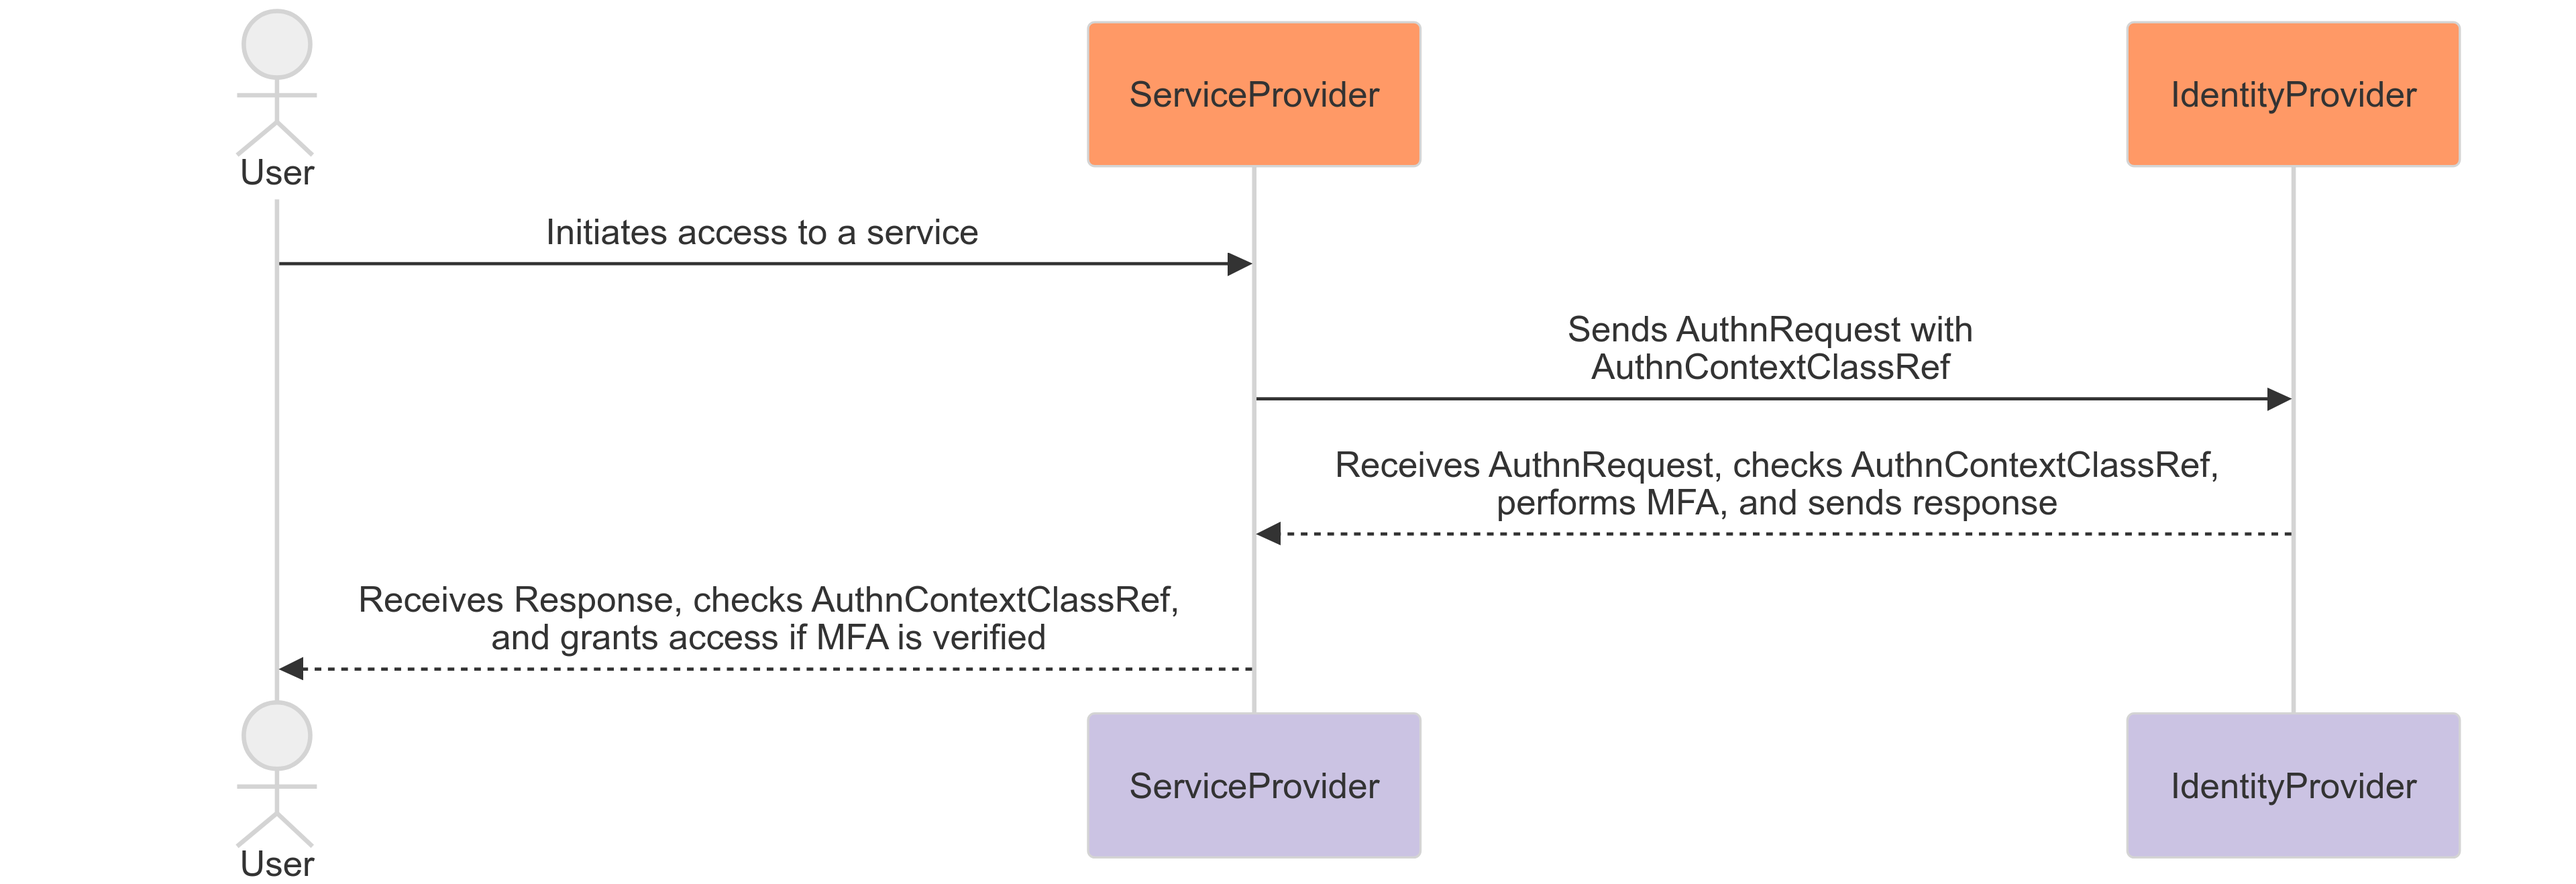
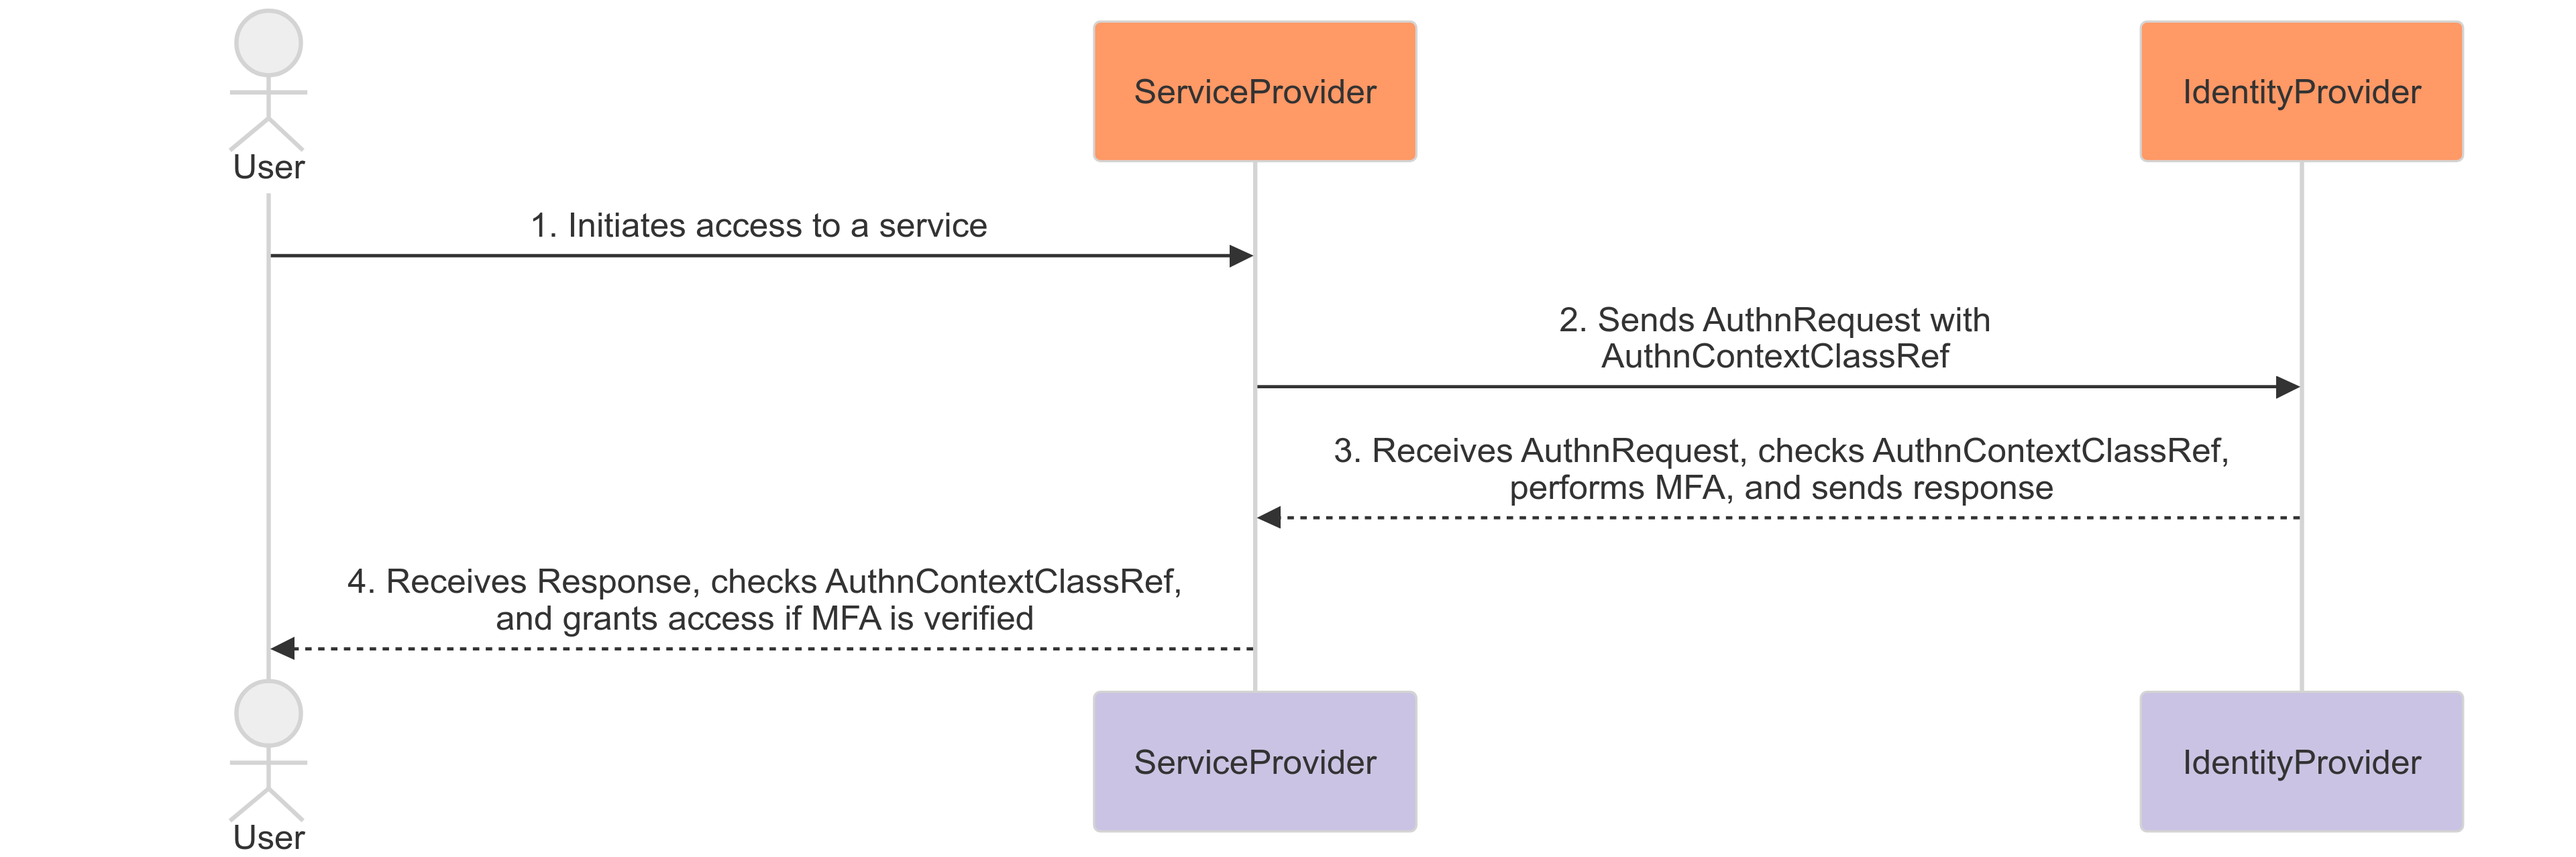
Add content and figure

diff --git a/docs/_configure-refeds-mfa-on-shibboleth-sp/03-check-refeds-mfa.md b/docs/_configure-refeds-mfa-on-shibboleth-sp/03-check-refeds-mfa.md
@@ -4,16 +4,23 @@ order: 3
 duration: 1
 ---
 
-The Identity Provider (IdP) must then check the AuthnContextClassRef element in the AuthnRequest message. If the URI
-of the REFEDS MFA Profile is present, the IdP must ensure that the user is authenticated using MFA. 
+After the SP sends the MFA requirement to the IdP, the IdP must then check the `<AuthnContextClassRef>` element in the AuthnRequest message.
 
-The identity provider must then include the AuthnContextClassRef element in the Response message. This is most 
-easily done by replacing the `require shibboleth` stub with `require authnContextClassRef https://refeds.org/profile/mfa` in the Apache configuration 
-file as shown below.
+If the URI of the REFEDS MFA Profile is present, the IdP must include the REFEDS MFA in its response to ensure that the user is authenticated using MFA. 
 
-An HTTP 401 Authorization Required error page is also included in the configuration file to block further access 
-and inform the user that MFA is required to access the resource. The user is also provided with a link to 
-reauthenticate with MFA.
+This is accomplished by including the `<AuthnContextClassRef>` element in the IdP's Response message and is most easily done by replacing the `require shibboleth` stub on the third line of the Apache configuration file as shown 
+below:
+
+```apache
+<Location /auth/login>
+    AuthType shibboleth 
+    require shibboleth
+    ShibRequestSetting requireSession true
+    ShibRequestSetting authnContextClassRef https://refeds.org/profile/mfa
+</Location>
+```
+
+with the following: `require authnContextClassRef https://refeds.org/profile/mfa`
 
 ```apache
 <Location /auth/login>
@@ -21,8 +28,8 @@ reauthenticate with MFA.
     require authnContextClassRef https://refeds.org/profile/mfa
     ShibRequestSetting requireSession true
     ShibRequestSetting authnContextClassRef https://refeds.org/profile/mfa
-    ErrorDocument 401 "<h1>Access denied: MFA required</h1>Multi-Factor Authentication is required to access this resource, but you have logged in without MFA confirmed.<p>You can try <a href=\"/Shibboleth.sso/Login?target=/auth/login&authnContextClassRef=https://refeds.org/profile/mfa\">logging in again with MFA</a>."
 </Location>
 ```
 
-The SP must check the AuthnContextClassRef element in the Response message.
+If there are other `require` rules in the Apache configuration file, the `require authnContextClassRef https://refeds.org/profile/mfa` rule should be added to the list of rules which should then all be wrapped 
+in a `<RequireAll>` block and joined with a logical <strong>AND</strong>. If this is not done, Apache will apply default <strong>OR</strong> logic.

diff --git a/docs/_configure-refeds-mfa-on-shibboleth-sp/04-mfa-specific-error-handling.md b/docs/_configure-refeds-mfa-on-shibboleth-sp/04-mfa-specific-error-handling.md
@@ -1,0 +1,33 @@
+---
+title: MFA-specific error handling
+order: 4
+duration: 1
+---
+
+The next step in the configuration process is error handling. If a different `authnContextClassRef` value is used 
+other than what is requested by the SP, the IdP must return an error to the SP. There are a number of reasons why 
+this may occur and can include misconfiguration of the IdP or the SP. In this case, Apache blocks further access to the 
+user's session with a standard 401 error page. It is the responsibility of the SP to handle this error and inform the 
+user that MFA is required to access the resource.
+
+Customised 401 error pages are encouraged and can be created to suit the needs of the SP. Additional instructions 
+can include:
+
+- Informing the user that MFA is required to access the resource (this is usually due to MFA being requested by the 
+  SP but not being supported by the IdP)
+- Providing a link to log in again with MFA
+- Redirecting the user to a different page
+- Providing a contact email address for the IdP's service desk
+- Providing a link to the SP's support page
+
+In the example below, the SP has created a customised 401 error page to inform the user that MFA is required to access the resource. The user is also provided with a link to log in again with MFA.
+
+```apache
+<Location /auth/login>
+AuthType shibboleth
+require authnContextClassRef https://refeds.org/profile/mfa
+ShibRequestSetting requireSession true
+ShibRequestSetting authnContextClassRef https://refeds.org/profile/mfa
+ErrorDocument 401 "<h1>Access denied: MFA required</h1>Multi-Factor Authentication is required to access this resource, but you have logged in without MFA confirmed.<p>You can try <a href=\"/Shibboleth.sso/Login?target=/auth/login&authnContextClassRef=https://refeds.org/profile/mfa\">logging in again with MFA</a>."
+</Location>
+```

diff --git a/docs/_configure-refeds-mfa-on-shibboleth-sp/02-request-refeds-mfa.md b/docs/_configure-refeds-mfa-on-shibboleth-sp/02-request-refeds-mfa.md
@@ -4,22 +4,25 @@ order: 2
 duration: 1
 ---
 
-To signal multi-factor authentication (MFA), REFEDS has defined a profile that Service Providers (SPs) can use. This profile is called the [REFEDS MFA Profile](https://refeds.org/profile/mfa).
+To signal the MFA requirement, the SP must include an `<AuthnContextClassRef>` element in the AuthnRequest message. This element must contain the URI of the REFEDS MFA Profile:
 
-To signal the MFA requirement, the SP must include an AuthnContextClassRef element in the AuthnRequest message. This element must contain the URI of the REFEDS MFA Profile.
+```
+https://refeds.org/profile/mfa
+```
 
 Requesting REFEDS MFA can be done in explicitly or implicitly initiated sessions.
 
 ## Explicitly initiated sessions
 
-If redirecting to the SessionInitiator, the SP must include the AuthnContextClassRef element in the AuthnRequest message. This element must contain the URI of the REFEDS MFA Profile.
+If redirecting to the SessionInitiator, the SP must include the `<AuthnContextClassRef>` element in the AuthnRequest message. This element must contain the URI of the REFEDS MFA Profile.
 
 For example, include the query string parameter `authnContextClassRef` in the URL of the Session Initiator (e.g. `/Shibboleth/Login`):
 
 ```
-authnContextClassRef=https://refeds.org/profile/mfa
+https://validator.aaf.edu.au/Shibboleth.sso/Login?target=/auth/login&authnContextClassRef=https://refeds.org/profile/mfa
 ```
 <br>
+
 
 ## Implicitly initiated sessions
 

diff --git a/docs/_configure-refeds-mfa-on-shibboleth-sp/01-overview.md b/docs/_configure-refeds-mfa-on-shibboleth-sp/01-overview.md
@@ -4,7 +4,11 @@ order: 1
 duration: 1
 ---
 
-This tutorial will guide you through the process of configuring a Shibboleth Service Provider (SP) to use the [REFEDS MFA Profile](https://refeds.org/profile/mfa) for multi-factor authentication (MFA).
+Service Providers (SPs) can use a signal defined within a profile called the [REFEDS MFA Profile](https://refeds.org/profile/mfa) to request multi-factor authentication (MFA) from an Identity Provider (IdP).
+
+The IdP responds to the SP's request by ensuring that the user is authenticated using MFA. If the user is not authenticated using MFA, the IdP will return an error message to the SP.
+
+This tutorial will guide you through the process of configuring a Shibboleth Service Provider (SP) to use the [REFEDS MFA Profile](https://refeds.org/profile/mfa) for MFA.
 
 ### What you'll learn
 
@@ -20,6 +24,6 @@ This tutorial will guide you through the process of configuring a Shibboleth Ser
 <br>
 
 An overview of the steps involved in signaling the MFA requirement by an SP and the response by an IdP is shown below:
-
 ![REFEDS MFS](/assets/images/configure-refeds-mfa-on-shibboleth-sp/refeds-mfa.png)
 
+Figure 1. REFEDS MFA signaling and response

diff --git a/docs/_configure-refeds-mfa-on-shibboleth-sp/05-next-steps.md b/docs/_configure-refeds-mfa-on-shibboleth-sp/05-next-steps.md
@@ -1,0 +1,10 @@
+---
+title: Next steps
+order: 5
+duration: 1
+---
+
+For more information on error handling and customising error pages, refer to the links below:
+
+- [Requiring Multi-Factor Authentication](https://shibboleth.atlassian.net/wiki/spaces/SP3/pages/2114781453/Requiring+Multi-Factor+Authentication)
+- [Error Handling](https://shibboleth.atlassian.net/wiki/spaces/SP3/pages/2065334361/Errors)
